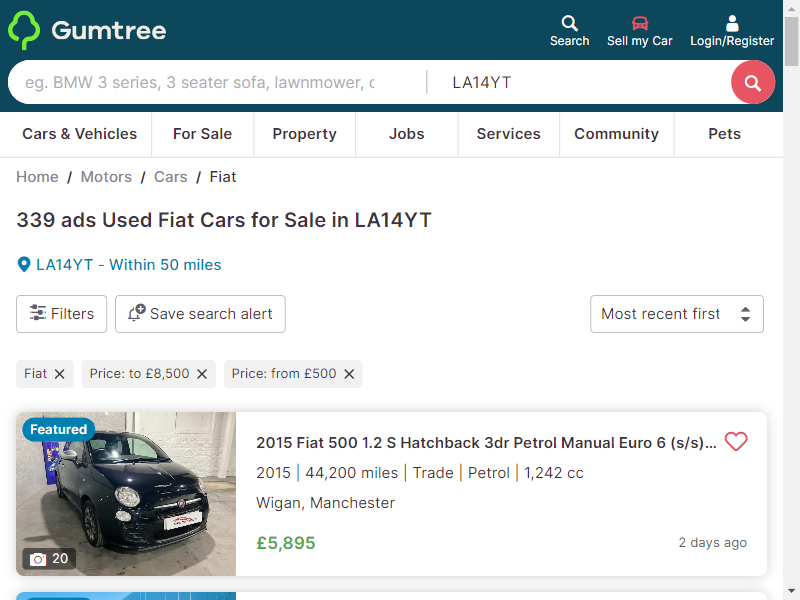
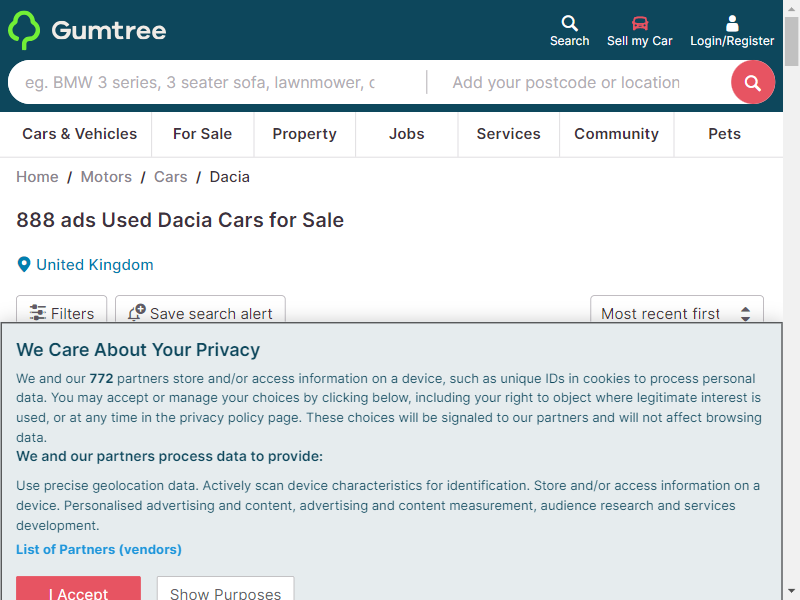
Just adding in the message feature

diff --git a/index.js b/index.js
@@ -3,10 +3,16 @@ const puppeteer = require('puppeteer');
 const nodeCron = require('node-cron'); 
 
 // Add in the remaining imports here 
- 
+
 
 // Create the url variable here 
-const url = 'https://www.gumtree.com/search?search_category=cars&vehicle_make=fiat&search_location=la14yt&max_price=8500&min_price=500'; 
+
+// update 
+const url = 'https://www.gumtree.com/search?search_category=cars&vehicle_make=dacia&search_location=uk&max_price=12000&min_price=500'; 
+
+
+
+// const url = 'https://www.gumtree.com/search?search_category=cars&vehicle_make=fiat&search_location=la14yt&max_price=8500&min_price=500'; 
 
 // const url = 'https://www.ebay.com/b/Performance-Racing-Parts/107057/bn_568110'; 
 
@@ -53,15 +59,119 @@ async function goBack(){
     
     
     
+    
 }
+
+
+// Add in the send message function here 
+
+async function sendMessage(messageURL){
+    
+    // Select the message component here 
+     
+    
+    // Click on the message input element 
+    
+    // Enter in the text 
+    
+    // Press enter 
+    
+    
+    // Wait for a while 
+    
+    // Call the go back home function here 
+    
+    
+    
+    
+    
+}
+
+
+async function login(messageURL){
+
+        
+        // Get the email input here
+        
+    await page.waitForSelector('[name="email"]'); 
+    await page.waitForSelector('[name="password"]');
+    
+    // Wait for the element to be available 
+    const emailInput = await page.$('[name="email"]'); 
+    const passwordInput = await page.$('[name="password"]');
+    
+    // Access the element 
+    console.log("this is the email input "); 
+    console.log(emailInput);
+    
+    console.log("this is the password input"); 
+    console.log(passwordInput); 
+    
+    
+    await emailInput.click(); 
+    
+    
+    await emailInput.type("danielwakeley7@gmail.com");
+    
+    
+    await passwordInput.click(); 
+    await passwordInput.type("Beholdhowgood!133");
+    
+    await page.keyboard.press('Enter'); 
+    
+    
+    
+      await sendMessage(messageURL); 
+      
+        
+        
+    
+    
+}
+
+
+
 
 // Add in the navigate to a different page function here 
 
 // Create the function to navigate to a different page here or go back 
-async function messageBoss(){
+async function messageBoss(messageURL){
 
     // Create code that goes to facebook messenger and 
     // Sends them the saved link. 
+    
+    // Goto the facebook profile here 
+    console.log('teleporting there *****');
+    
+    
+    // Create a wait function here so that the navigation occurs correctly 
+    await Promise.all([page.goto('https://discord.com/channels/@me/644645709781663744'), page.waitForNavigation()]);
+    // Send the message using the messageURL 
+    
+    // Create the script to send the message here 
+    
+    // Create the script to login to discord here 
+    
+    
+    // Call the teleport function here and in the message url as props 
+    login(messageURL); 
+    
+    
+    
+    
+    // Click on it 
+    
+    // Then enter in the text 
+    
+    // Then select the second input box here 
+    
+    // Enter in the text 
+    
+    // Then press enter 
+    
+    
+    // Then call the go back function here 
+
     
     
     // Then call the go back function after a delay
@@ -74,14 +184,38 @@ async function messageBoss(){
 // Add in the evaluate data function here 
 
 // Create the function to evaluate them here 
-async function evaluateData(){
+async function evaluateData(priceNum){
     
     // Extract the data from the props here 
+    if(priceNum > 500 && priceNum < 10000 ){
+        
+        console.log("we have a high price!!!");
+        
+        
+        console.log('this is the price');
+        
+        console.log(priceNum);
+        
+        // Call the Message boss function with the priceNum current url 
+        
+        // Get the current url here 
+        const messageURL = await page.url();
+        
+        
+        // Call the MessageBoss function here 
+        messageBoss(messageURL); 
+        
+
+    }
+    
+    
     
     // Save the data to variables here 
     
     
     // Create logic that evaluates the data here 
+    
+    
     
     
     // Create logic that either call navigate to a different page 
@@ -90,6 +224,7 @@ async function evaluateData(){
 
     
 }
+
 
 
 
@@ -103,44 +238,37 @@ async function scrapeData(){
     // ClassNames 
     console.log("is this working"); 
     
-    // Add in the code here to scrape the data from the page 
     
-    // This is the class to look for 
-    // .css-sik94l
-    
-    // Add in the code to select the html element using the 
-    // CSS className 
-    const priceElement = await page.$('.css-sik94l');
-    
-    const priceText = await page.evaluate( el => el.textContent, priceElement); 
-    
-    
+    await page.waitForSelector('.css-sik94l'); // Wait for the element to be available 
+    const priceElement = await page.$('.css-sik94l'); 
 
-    // then get the text part of the HTML element 
     
-    // Then format the text 
+    const priceText = await page.evaluate(el => el.textContent, priceElement); 
     
-    // Then turn the text into a number 
+    // console.log(priceText);
     
-    // Then run the number through some tests 
+    // Now format the priceText 
+    const formattedText = priceText.replace(/[, £]/g, ''); 
     
-    
-    
-    
-    
+    // console.log("this is the formatted text");
+    // console.log(formattedText); 
     
     
-    // Once the dom element has been found then extract the text 
+    // Now turn the formatted text into a number 
+    const priceNum = Number(formattedText); 
     
-    // Save the text to a variable 
+    console.log("this is the price number"); 
+    console.log(priceNum); 
     
-    // Pass the variables through props to the function call 
     
-    // Call the evaluate Data function here with the props 
     
- 
-
-
+    // Call the evaluate data function here
+    // Pass in the priceNum as props 
+    
+    evaluateData(priceNum); 
+    
+    
+    
     
 }
 
@@ -170,6 +298,11 @@ async function getNearestAncestor(element){
     async function currentURL(){
         
         const currentUrl = await page.url();
+        
+        
+        // Add in the check here to see if the url has 
+        // Already been added to the Array and if it has trigger 
+        // the go home function 
         
         visitedProducts.push(currentUrl); 
         
